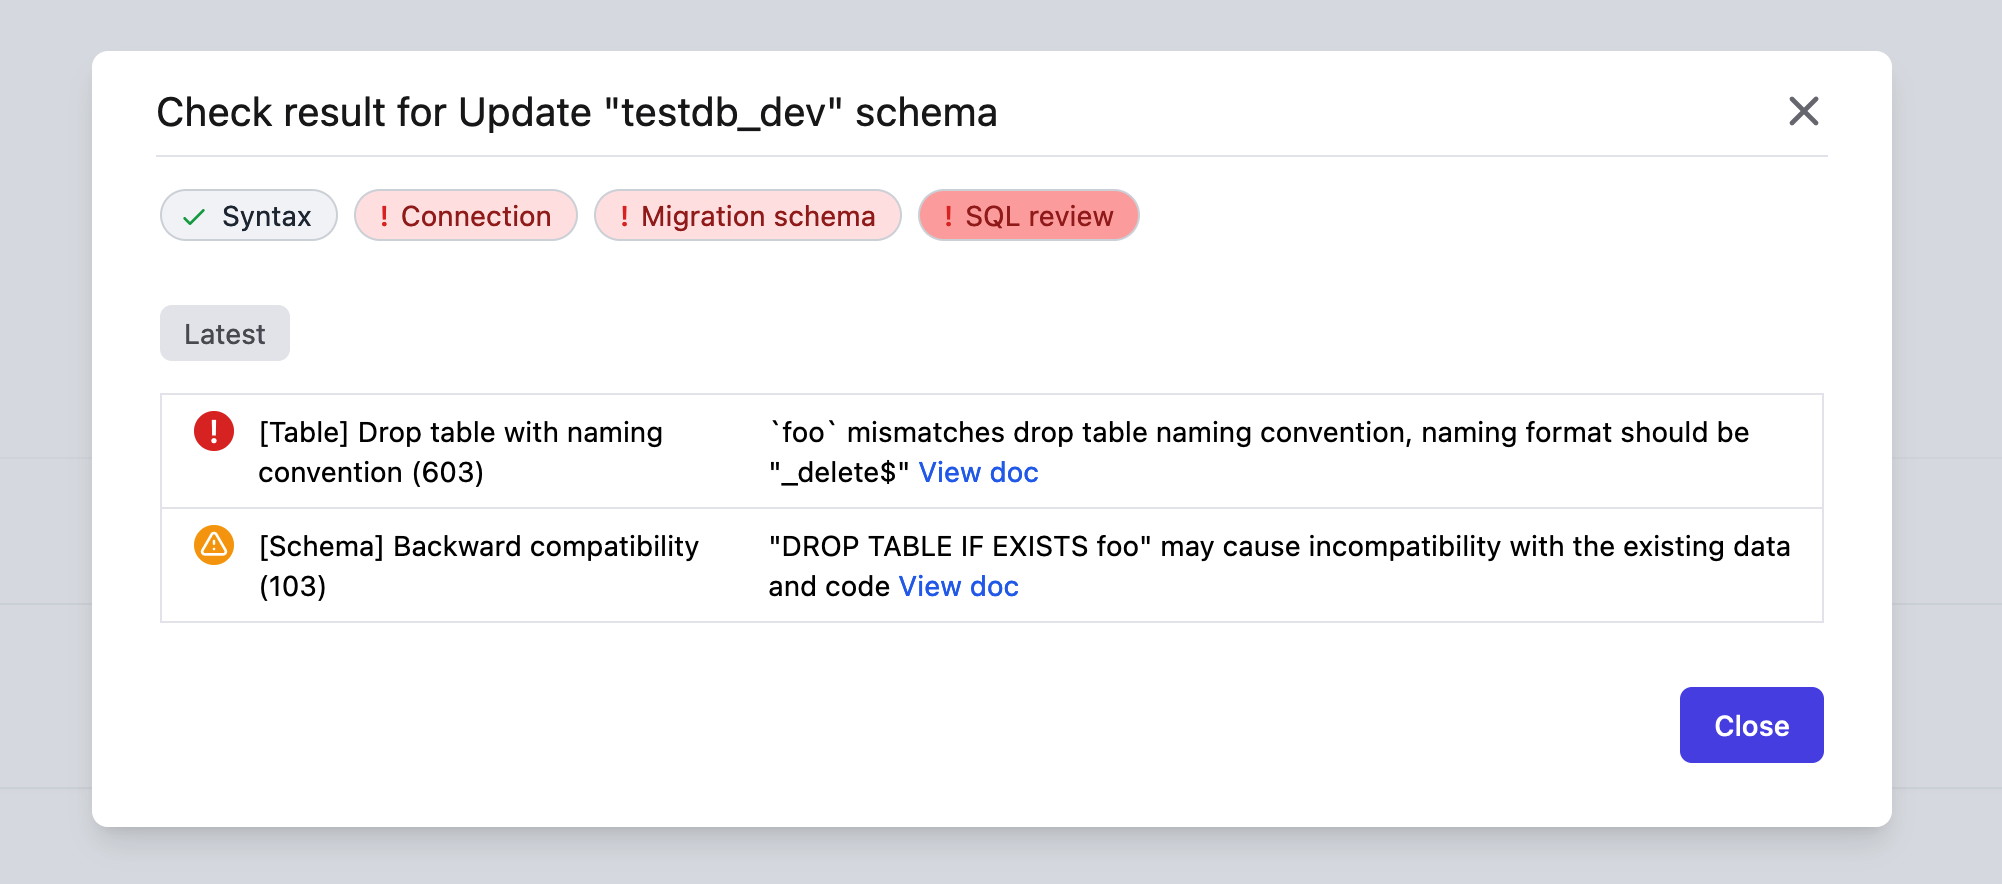
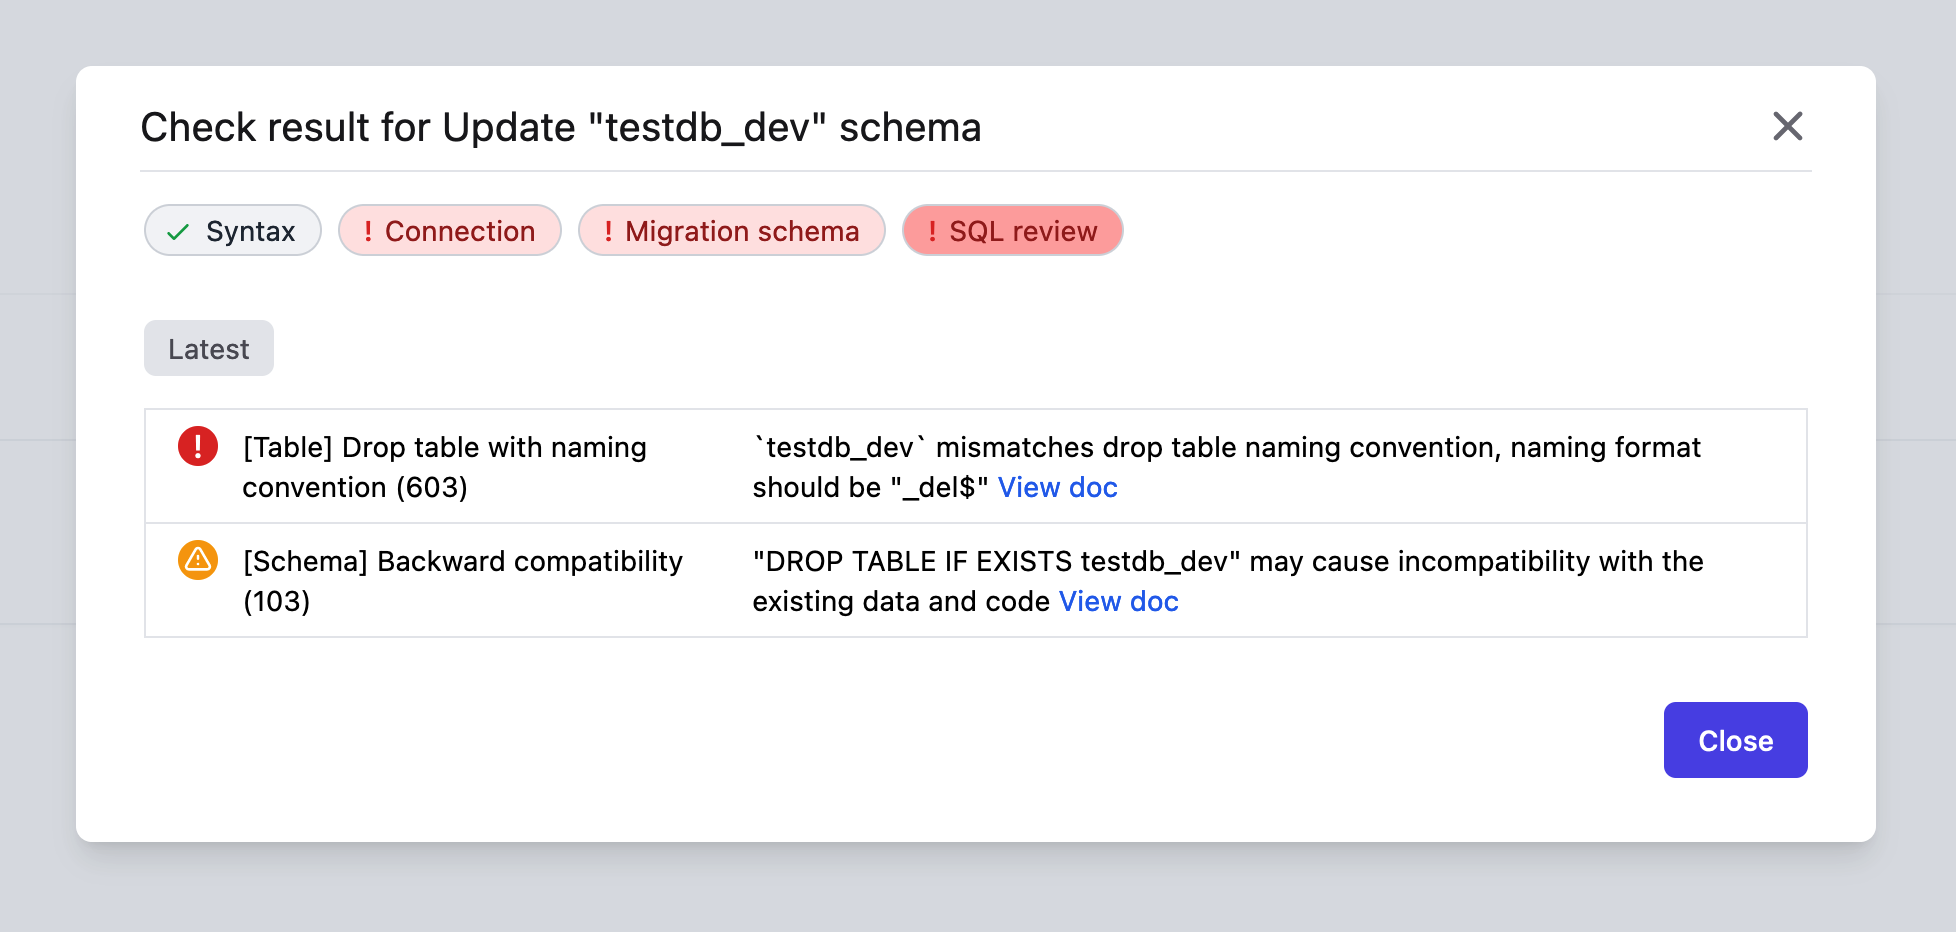
chore: update docs

Changed region(s): [[0.0312, 0.0305, 0.9668, 0.9468]]

diff --git a/content/docs/en/sql-review/review-rules/table-drop-naming.md b/content/docs/en/sql-review/review-rules/table-drop-naming.md
@@ -4,7 +4,7 @@ title: Drop naming convention for Table
 
 Only tables named with specific naming patterns can be deleted. This requires users to do a rename and then drop the table.
 
-The naming convention uses [regular expression](https://en.wikipedia.org/wiki/Regular_expression) format. By default the table name must have `_delete` suffix.
+The naming convention uses [regular expression](https://en.wikipedia.org/wiki/Regular_expression) format. By default the table name must have `_del` suffix.
 
 ![schema-review-table-drop-naming](/static/docs/schema-review-table-drop-naming.webp)
 

diff --git a/content/docs/en/reference/error-code/advisor.md b/content/docs/en/reference/error-code/advisor.md
@@ -137,3 +137,7 @@ The table name mismatches with the naming convention for drop table operation. C
 ### 701 - Drop database restriction
 
 Can only drop the database if there's no table in it. Check [Drop database restriction](/docs/sql-review/review-rules/database-drop-empty-db) for details.
+
+### 702 - Not current database
+
+The database in your SQL statement mismatch the database in the catalog. Please check the statement to ensure the database name is correct.
